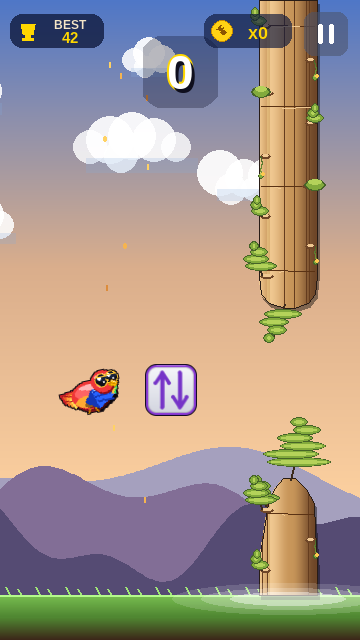
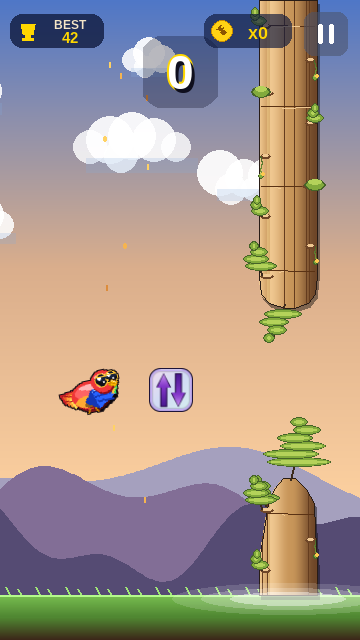
Reverse power-up: adopt holographic variant, smaller size
Wire option 03 (holographic) into the live builder: pearl-violet frame
with a dark-indigo hairline outline, an iridescent diagonal panel
(pale pink → lavender → mint cyan), and thick filled chevron arrows
with a vivid purple vertical gradient + glossy sheen. Default icon
diameter trimmed (MUSHROOM_R + 12) → (MUSHROOM_R + 8), ~15% smaller,
so the pickup sits more elegantly in the world.

Changed region(s): [[0.3972, 0.5625, 0.55, 0.6562]]

diff --git a/game/entities.py b/game/entities.py
@@ -200,110 +200,180 @@ _REVERSE_ICON_CACHE: "dict[int, pygame.Surface]" = {}
 
 
 def _build_reverse_icon(out_diameter: int) -> pygame.Surface:
-    """Premium icon: a rounded purple frame around a light-gray panel with
-    two clean purple monoline chevrons (up + down). Built at 4x super-
+    """Premium icon: holographic iridescent panel inside a pearl-violet frame
+    with two thick gradient purple chevrons (up + down). Built at 4x super-
     sampling and smoothscaled down for crisp edges on any background."""
     SS = 4
     size = out_diameter * SS
     surf = pygame.Surface((size, size), pygame.SRCALPHA)
 
     # ── Palette ─────────────────────────────────────────────────────────
-    OUTLINE      = (15, 5, 35)         # outer hairline, definition on any bg
-    FRAME        = (140, 60, 215)      # the purple perimeter
-    FRAME_HL     = (215, 165, 250)     # tiny top-edge highlight
-    PANEL_HI     = (245, 246, 250)     # gray panel — lit top
-    PANEL_LO     = (212, 214, 224)     # gray panel — slightly shaded bottom
-    INSET_SHADOW = (0, 0, 0, 38)       # soft inner shadow under the frame
-    ARROW        = (118, 52, 200)      # purple arrow body
-    ARROW_DK     = (62, 22, 130)       # arrow shadow / outline mix
+    OUTLINE      = (20, 12, 55)         # outer dark indigo hairline
+    FRAME        = (195, 175, 240)      # pearl-violet frame stroke
+    FRAME_HL     = (255, 255, 255)      # tiny top-edge highlight
+    INSET_SHADOW = (0, 0, 0, 38)        # soft inner shadow under the frame
+    HOLO_STOPS   = (
+        (240, 220, 240),                # top-left: pale pink
+        (210, 220, 245),                # mid: lavender-blue
+        (215, 240, 240),                # bottom-right: mint cyan
+    )
+    ARROW_TOP    = (175, 100, 230)
+    ARROW_MID    = (130, 55, 200)
+    ARROW_BOT    = (75, 25, 145)
+    ARROW_OUT    = (35, 10, 70)
+    SHEEN        = (255, 255, 255, 80)
 
-    radius   = SS * 11                # squircle-style corners
-    inset    = SS                     # 1-px outer outline gap
-    frame_t  = SS * 2                 # frame stroke = 2 final-px (clean & thin)
+    radius   = SS * 11                 # squircle-style corners
+    inset    = SS                      # 1-px outer outline gap
+    frame_t  = SS * 2                  # frame stroke = 2 final-px
 
     panel = pygame.Rect(inset, inset, size - inset * 2, size - inset * 2)
 
-    # 1) Outer 1-px dark outline so the icon reads on any background.
+    # 1) Outer 1-px dark hairline.
     pygame.draw.rect(surf, OUTLINE, panel, border_radius=radius)
-
-    # 2) Solid purple frame fill (will be partly covered by gray panel).
+    # 2) Pearl-violet frame fill.
     pygame.draw.rect(surf, FRAME, panel.inflate(-SS * 2, -SS * 2),
                      border_radius=radius - SS)
-
-    # 3) Light-gray inner panel with a subtle vertical gradient.
+    # 3) Holographic diagonal gradient panel inside the frame.
     inner = panel.inflate(-(frame_t + SS) * 2, -(frame_t + SS) * 2)
     inner_radius = max(2, radius - frame_t - SS)
-    grad_surf = pygame.Surface((size, size), pygame.SRCALPHA)
-    g0, g1 = inner.top, inner.bottom
-    for y in range(g0, g1 + 1):
-        t = (y - g0) / max(1, (g1 - g0))
-        col = (
-            int(PANEL_HI[0] + (PANEL_LO[0] - PANEL_HI[0]) * t),
-            int(PANEL_HI[1] + (PANEL_LO[1] - PANEL_HI[1]) * t),
-            int(PANEL_HI[2] + (PANEL_LO[2] - PANEL_HI[2]) * t),
-        )
-        pygame.draw.line(grad_surf, col, (0, y), (size, y))
+    grad = pygame.Surface((size, size), pygame.SRCALPHA)
+    for y in range(inner.top, inner.bottom + 1):
+        for x in range(inner.left, inner.right + 1):
+            t = ((x - inner.left) / max(1, inner.width)
+                 + (y - inner.top) / max(1, inner.height)) / 2
+            if t < 0.5:
+                u = t / 0.5
+                col = (
+                    int(HOLO_STOPS[0][0] + (HOLO_STOPS[1][0] - HOLO_STOPS[0][0]) * u),
+                    int(HOLO_STOPS[0][1] + (HOLO_STOPS[1][1] - HOLO_STOPS[0][1]) * u),
+                    int(HOLO_STOPS[0][2] + (HOLO_STOPS[1][2] - HOLO_STOPS[0][2]) * u),
+                )
+            else:
+                u = (t - 0.5) / 0.5
+                col = (
+                    int(HOLO_STOPS[1][0] + (HOLO_STOPS[2][0] - HOLO_STOPS[1][0]) * u),
+                    int(HOLO_STOPS[1][1] + (HOLO_STOPS[2][1] - HOLO_STOPS[1][1]) * u),
+                    int(HOLO_STOPS[1][2] + (HOLO_STOPS[2][2] - HOLO_STOPS[1][2]) * u),
+                )
+            grad.set_at((x, y), col)
     inner_mask = pygame.Surface((size, size), pygame.SRCALPHA)
     pygame.draw.rect(inner_mask, (255, 255, 255, 255), inner,
                      border_radius=inner_radius)
-    grad_surf.blit(inner_mask, (0, 0), special_flags=pygame.BLEND_RGBA_MULT)
-    surf.blit(grad_surf, (0, 0))
+    grad.blit(inner_mask, (0, 0), special_flags=pygame.BLEND_RGBA_MULT)
+    surf.blit(grad, (0, 0))
 
-    # 4) Soft inner shadow inside the gray panel — gives the gray a
-    #    recessed feel under the frame.
+    # 4) Soft inner shadow inside the panel — gives the panel a recessed feel.
     shadow_surf = pygame.Surface((size, size), pygame.SRCALPHA)
     pygame.draw.rect(shadow_surf, INSET_SHADOW, inner,
                      border_radius=inner_radius, width=SS)
     surf.blit(shadow_surf, (0, 0))
 
-    # 5) Tiny lighter highlight along the very top edge of the frame —
-    #    sells the "lit from above" depth.
+    # 5) Top-edge highlight on the frame.
     pygame.draw.line(surf, FRAME_HL,
                      (panel.left + radius, panel.top + SS),
                      (panel.right - radius, panel.top + SS),
                      max(1, SS // 2))
 
-    # ── Arrows: clean purple monoline chevrons ─────────────────────────
+    # ── Arrows: thick filled chevrons with vertical gradient + sheen ───
     pad_x = max(SS * 5, panel.width // 6)
-    pad_y = max(SS * 5, panel.height // 6)
-    arrow_area = panel.inflate(-pad_x * 2, -pad_y * 2)
+    pad_y = max(SS * 5, panel.height // 7)
+    area = panel.inflate(-pad_x * 2, -pad_y * 2)
 
-    col_w = arrow_area.width // 2
-    lx = arrow_area.left + col_w // 2
-    rx = arrow_area.right - col_w // 2
-    # Bolder, thicker strokes for a chunkier "icon-set" feel.
-    stroke = max(SS * 4, arrow_area.height // 8)
-    head_w = max(SS * 5, arrow_area.width // 5)
-    head_h = max(SS * 5, arrow_area.height * 30 // 100)
+    col_w = area.width // 2
+    lx = area.left + col_w // 2
+    rx = area.right - col_w // 2
+    head_h  = area.height * 42 // 100
+    shaft_w = area.width * 17 // 100
+    head_w  = shaft_w * 26 // 10
 
-    def _arrow(target, col_x, *, point_up, color, stroke_w):
+    def silhouette(col_x, *, point_up, expand=0):
+        e = expand
+        sw = shaft_w + e * 2
+        hw = head_w + e * 2
         if point_up:
-            tip  = (col_x, arrow_area.top)
-            tail = (col_x, arrow_area.bottom)
-            wing_y = arrow_area.top + head_h
+            tip  = (col_x, area.top - e)
+            base = area.bottom + e
+            sh_y = area.top + head_h - e // 3
+            return [
+                tip,
+                (col_x + hw // 2, sh_y),
+                (col_x + sw // 2, sh_y),
+                (col_x + sw // 2, base),
+                (col_x - sw // 2, base),
+                (col_x - sw // 2, sh_y),
+                (col_x - hw // 2, sh_y),
+            ]
         else:
-            tip  = (col_x, arrow_area.bottom)
-            tail = (col_x, arrow_area.top)
-            wing_y = arrow_area.bottom - head_h
-        wl = (col_x - head_w, wing_y)
-        wr = (col_x + head_w, wing_y)
-        pygame.draw.line(target, color, tail, tip, stroke_w)
-        pygame.draw.line(target, color, tip, wl, stroke_w)
-        pygame.draw.line(target, color, tip, wr, stroke_w)
-        # Round caps so the strokes don't look chopped at small sizes.
-        for p in (tail, wl, wr, tip):
-            pygame.draw.circle(target, color, p, stroke_w // 2)
+            tip  = (col_x, area.bottom + e)
+            base = area.top - e
+            sh_y = area.bottom - head_h + e // 3
+            return [
+                tip,
+                (col_x - hw // 2, sh_y),
+                (col_x - sw // 2, sh_y),
+                (col_x - sw // 2, base),
+                (col_x + sw // 2, base),
+                (col_x + sw // 2, sh_y),
+                (col_x + hw // 2, sh_y),
+            ]
 
-    # Single bold purple pass — no outline pass, the gray panel provides
-    # plenty of contrast and the arrow stays visually "thick" rather than
-    # ringed.
-    _arrow(surf, lx, point_up=True,  color=ARROW, stroke_w=stroke)
-    _arrow(surf, rx, point_up=False, color=ARROW, stroke_w=stroke)
+    def draw_arrow(col_x, *, point_up):
+        # Outline.
+        pygame.draw.polygon(surf, ARROW_OUT,
+                            silhouette(col_x, point_up=point_up, expand=SS))
+        # Vertical gradient body, scanline-masked.
+        body = silhouette(col_x, point_up=point_up, expand=0)
+        body_surf = pygame.Surface((size, size), pygame.SRCALPHA)
+        ys = [p[1] for p in body]
+        y0, y1 = min(ys), max(ys)
+        for y in range(y0, y1 + 1):
+            t = (y - y0) / max(1, (y1 - y0))
+            if not point_up:
+                t = 1.0 - t
+            if t < 0.4:
+                u = t / 0.4
+                col = (
+                    int(ARROW_TOP[0] + (ARROW_MID[0] - ARROW_TOP[0]) * u),
+                    int(ARROW_TOP[1] + (ARROW_MID[1] - ARROW_TOP[1]) * u),
+                    int(ARROW_TOP[2] + (ARROW_MID[2] - ARROW_TOP[2]) * u),
+                )
+            else:
+                u = (t - 0.4) / 0.6
+                col = (
+                    int(ARROW_MID[0] + (ARROW_BOT[0] - ARROW_MID[0]) * u),
+                    int(ARROW_MID[1] + (ARROW_BOT[1] - ARROW_MID[1]) * u),
+                    int(ARROW_MID[2] + (ARROW_BOT[2] - ARROW_MID[2]) * u),
+                )
+            pygame.draw.line(body_surf, col, (0, y), (size, y))
+        mask = pygame.Surface((size, size), pygame.SRCALPHA)
+        pygame.draw.polygon(mask, (255, 255, 255, 255), body)
+        body_surf.blit(mask, (0, 0), special_flags=pygame.BLEND_RGBA_MULT)
+        surf.blit(body_surf, (0, 0))
+
+        # Glossy sheen across the arrow head.
+        sheen = pygame.Surface((size, size), pygame.SRCALPHA)
+        if point_up:
+            sy0, sy1 = area.top, area.top + head_h * 9 // 10
+        else:
+            sy0, sy1 = area.bottom - head_h * 9 // 10, area.bottom
+        for y in range(min(sy0, sy1), max(sy0, sy1) + 1):
+            t = (y - sy0) / max(1, (sy1 - sy0))
+            if not point_up:
+                t = 1.0 - t
+            a = int(SHEEN[3] * (1.0 - t) ** 1.4)
+            if a > 0:
+                pygame.draw.line(sheen, (*SHEEN[:3], a), (0, y), (size, y))
+        sheen.blit(mask, (0, 0), special_flags=pygame.BLEND_RGBA_MULT)
+        surf.blit(sheen, (0, 0))
+
+    draw_arrow(lx, point_up=True)
+    draw_arrow(rx, point_up=False)
 
     return pygame.transform.smoothscale(surf, (out_diameter, out_diameter))
 
 
-def _get_reverse_icon(diameter: int = (MUSHROOM_R + 12) * 2) -> pygame.Surface:
+def _get_reverse_icon(diameter: int = (MUSHROOM_R + 8) * 2) -> pygame.Surface:
     cached = _REVERSE_ICON_CACHE.get(diameter)
     if cached is None:
         cached = _build_reverse_icon(diameter)
